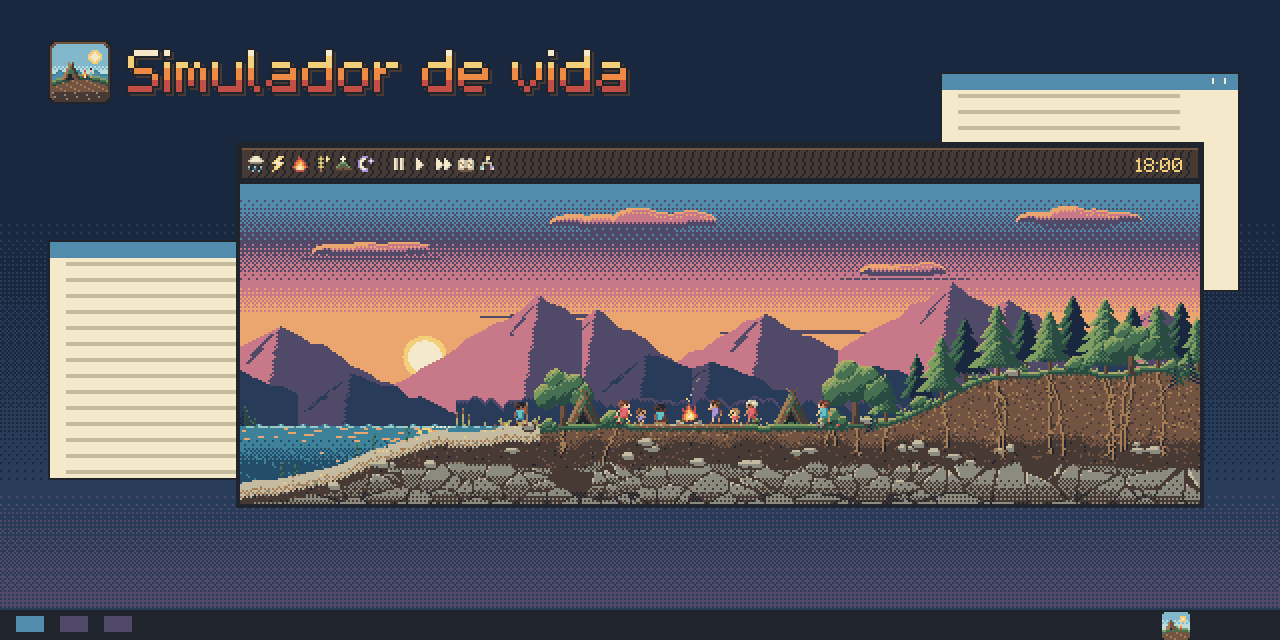
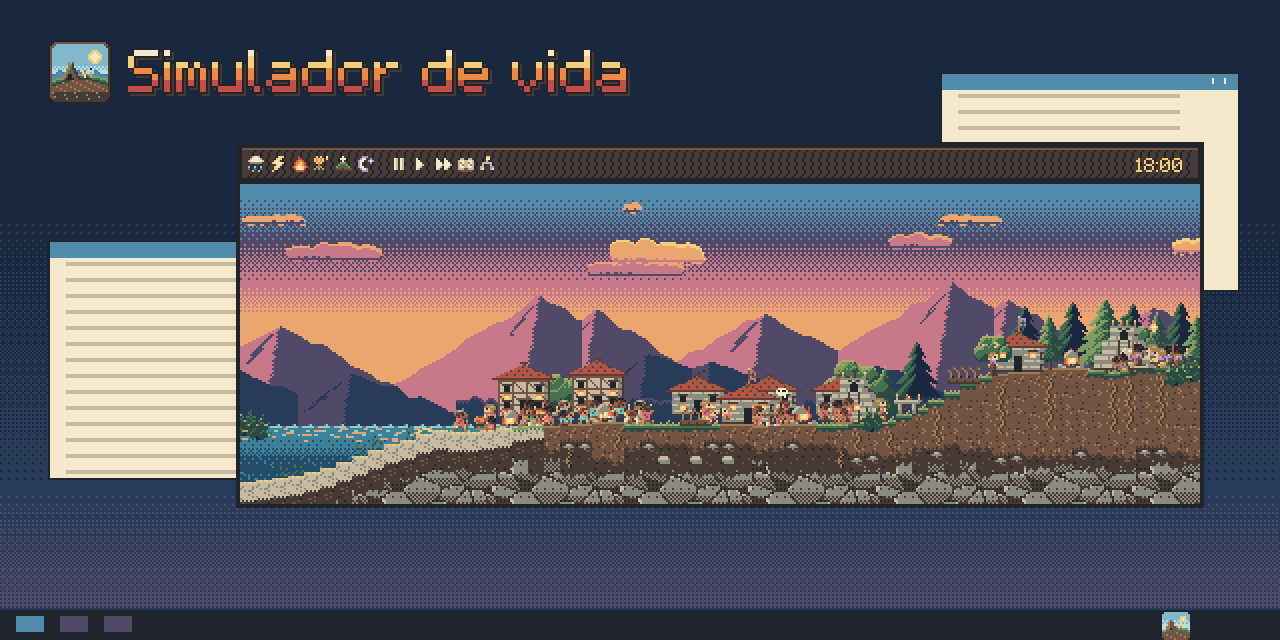
Divulgação da versão 0.1: 7 momentos capturados do jogo em 3x (entardecer com a roda, caçada, vila do estágio 6 de tarde e de noite, livro da estante, dica da pessoa, recomeço), GIF de um dia em 50x (15 s, 4,1 MB) e a capa com o jogo de verdade; capturar_divulgacao.sh e LEIA-ME

diff --git a/arte_claude/divulgacao/divulgacao.py b/arte_claude/divulgacao/divulgacao.py
@@ -262,8 +262,9 @@ def capa():
         for y in range(Hc - 12, Hc - 4):
             for x in range(8 + i * 22, 22 + i * 22):
                 img.putpixel((x, y), COR(5 if i else 2))
-    # a moldura do jogo: alça em cima e o mundo ao entardecer
-    mundo = Image.open(AQUI.parent / "alvo" / "alvo_entardecer.png").convert("RGBA")
+    # a moldura do jogo: alça em cima e o mundo ao entardecer, capturado do jogo de verdade
+    # (versão 0.1: a vila do estágio 3 com a roda em volta do fogo; `capturar_divulgacao.sh`)
+    mundo = Image.open(AQUI / "fontes" / "jogo_entardecer.png").convert("RGBA")
     fx, fy = 120, 92
     for y in range(fy - 21, fy + 162):
         for x in range(fx - 2, fx + 482):
@@ -305,7 +306,15 @@ def principal():
         x = 3 if canto == "esq" else img.width - t.width - 13
         legenda(img, frase, x, 3, escala=1)
         img.resize((960, 320), Image.NEAREST).save(AQUI / f"{nome}.png")
-    print("divulgação: logos, capa e 4 destaques")
+    # os melhores momentos da versão 0.1, capturados do jogo e ampliados 3x (`capturar_divulgacao.sh`)
+    for nome, fonte in (("momento_1_entardecer", "jogo_entardecer"), ("momento_2_cacada", "jogo_cacada"),
+                        ("momento_3_vila_estagio6", "jogo_vila_estagio6"),
+                        ("momento_3b_vila_estagio6_noite", "jogo_vila_estagio6_noite"),
+                        ("momento_4_livro", "jogo_livro"), ("momento_5_dica_pessoa", "jogo_dica_pessoa"),
+                        ("momento_6_recomeco", "jogo_recomeco")):
+        img = Image.open(AQUI / "fontes" / f"{fonte}.png").convert("RGB")
+        img.resize((img.width * 3, img.height * 3), Image.NEAREST).save(AQUI / f"{nome}.png")
+    print("divulgação: logos, capa, 4 destaques e 7 momentos")
 
 
 if __name__ == "__main__":
